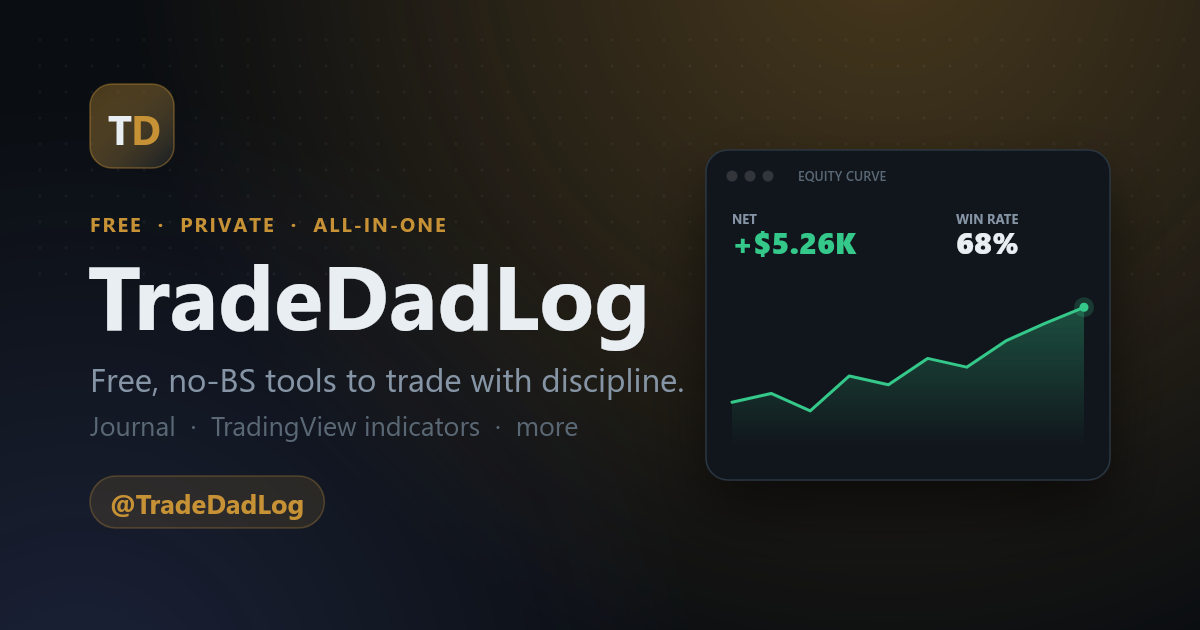
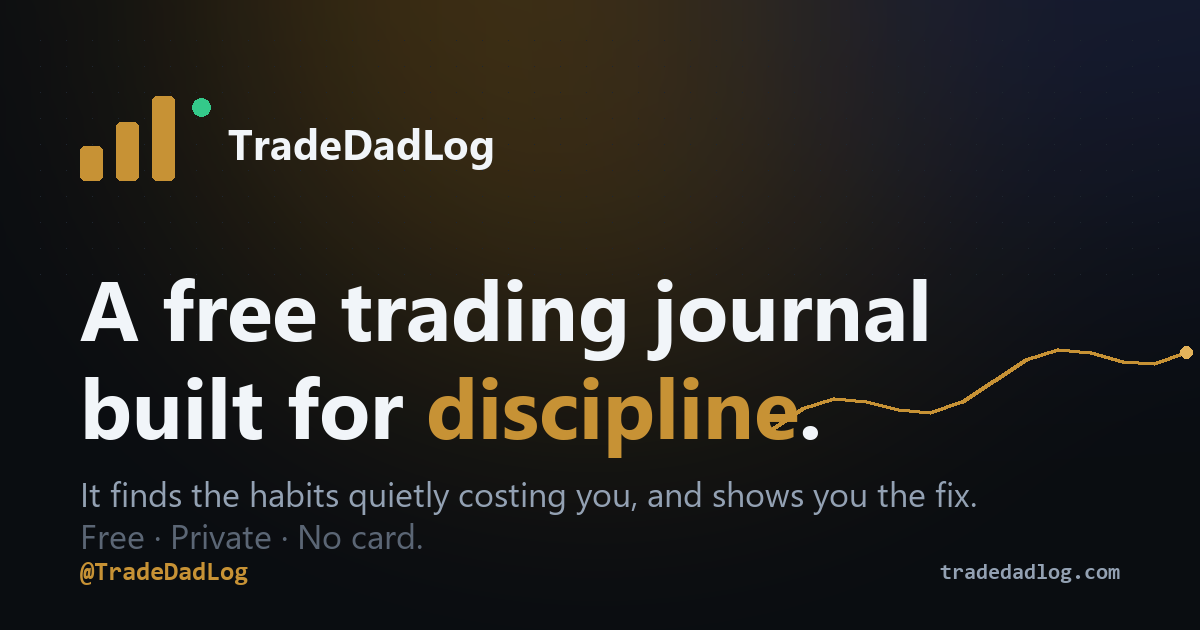
Hub: point journal card to mywhyjournal.com + new launch OG card
- Trading Journal card now links to the journal's own domain (mywhyjournal.com).
- Fresh 1200x630 OG image for the X/social preview: journal-first launch card
  in the brand's dark/gold look.

diff --git a/src/App.jsx b/src/App.jsx
@@ -59,7 +59,7 @@ const Icon = {
 /* ---------------- data (add tools here as you ship them) ---------------- */
 const TOOLS = [
   {
-    icon: 'journal', tone: 'pos', url: 'https://trading-jo.netlify.app/', badge: 'live',
+    icon: 'journal', tone: 'pos', url: 'https://mywhyjournal.com/', badge: 'live',
     title: 'Trading Journal',
     sub: { en: 'Free discipline-first journal: leaks, tilt score, routine and calendar.', es: 'Journal gratis centrado en disciplina: fugas, score de tilt, rutina y calendario.' },
   },
